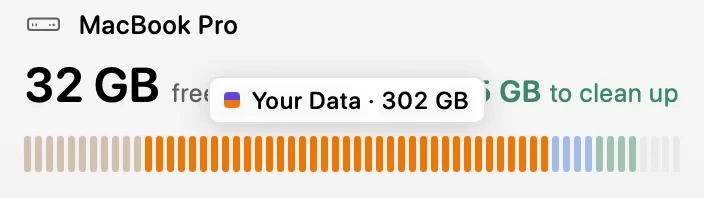
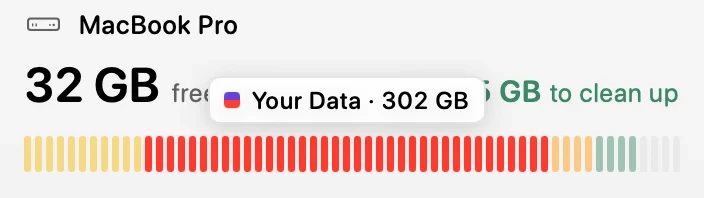
Levo: the disk bar in macOS's storage palette
Replaces the brown, orange and blue: System Data yellow, Your Data red,
Apps orange, Ready to free green, Free faint, in the demo, the Auto mode
tile, the disk and actions tiles (recoloured from the original renders)
and the phone stills.

Changed region(s): [[0.0312, 0.6667, 0.8438, 0.8788], [0.3125, 0.4848, 0.3438, 0.5455]]

diff --git a/levo/bento.css b/levo/bento.css
@@ -189,12 +189,12 @@ html.dark .bt-auto-pop { background: linear-gradient(180deg, #232323 0%, #1B1B1B
 .bt-auto-sec { color: rgb(var(--fg) / 0.5); }
 .bt-auto-ticks { display: flex; gap: 2px; margin: 12px 0 16px; }
 .bt-auto-ticks i { flex: 1; height: 18px; border-radius: 1.5px; background: var(--lv-free); transition: background-color .3s; }
-.bt-auto-ticks i.is-sys { background: #B89874; }
-.bt-auto-ticks i.is-data { background: #FF9F0A; }
-.bt-auto-ticks i.is-apps { background: #4FA3F8; }
-html:not(.dark) .bt-auto-ticks i.is-sys { background: #A2845E; }
-html:not(.dark) .bt-auto-ticks i.is-data { background: #E8780C; }
-html:not(.dark) .bt-auto-ticks i.is-apps { background: #1F7AE0; }
+.bt-auto-ticks i.is-sys { background: #FFD60A; }
+.bt-auto-ticks i.is-data { background: #FF453A; }
+.bt-auto-ticks i.is-apps { background: #FF9F0A; }
+html:not(.dark) .bt-auto-ticks i.is-sys { background: #F2B800; }
+html:not(.dark) .bt-auto-ticks i.is-data { background: #FF3B30; }
+html:not(.dark) .bt-auto-ticks i.is-apps { background: #FF9500; }
 .bt-auto-ticks i.is-free { background: rgb(var(--fg) / 0.14); }
 
 .bt-auto-chart { position: relative; flex: 1; min-width: 0; margin: 18px 40px 14px 0; }

diff --git a/levo/demo.js b/levo/demo.js
@@ -406,7 +406,8 @@
 	// what's in use, then what a clean would free, in green, then free space.
 	// The app's five parts (Gauges.swift DiskPart): System Data, Your Data, Apps,
 	// Ready to free (what's ticked, in green) and Free. Unticked findings stay Your Data.
-	var PARTS = { system: ["#A2845E", "#B89874"], yourData: ["#E8780C", "#FF9F0A"], apps: ["#1F7AE0", "#4FA3F8"] };
+	// macOS's own storage palette, without its grey: System Data yellow, Your Data red, Apps orange.
+	var PARTS = { system: ["#F2B800", "#FFD60A"], yourData: ["#FF3B30", "#FF453A"], apps: ["#FF9500", "#FF9F0A"] };
 	function segments() {
 		var unticked = readyGB() - tickedGB(), d = dark() ? 1 : 0;
 		var part = function (id) { return sum(S.disk.used.filter(function (u) { return (u.id === "system" ? "system" : u.id === "apps" ? "apps" : "yourData") === id; }), function (u) { return u.gb; }); };

diff --git a/levo/bento.js b/levo/bento.js
@@ -107,7 +107,7 @@
 		el.classList.toggle("is-freed", x >= DROP);
 		el.classList.toggle("is-low", x < DROP && v < AUTO.limit + 2);
 		var n = Math.round((v / AUTO.total) * AUTO.ticks * 2.4), ticks = el.querySelectorAll("[data-autoticks] i");
-		for (var i = 0; i < ticks.length; i++) ticks[i].className = i >= ticks.length - n ? "is-free" : i < 12 ? "is-sys" : i < 40 ? "is-data" : "is-apps";
+		for (var i = 0; i < ticks.length; i++) ticks[i].className = i >= ticks.length - n ? "is-free" : i < 8 ? "is-sys" : i < 30 ? "is-data" : "is-apps";
 	}
 	function autoPlay(t) {
 		var el = t.el, gen = t.gen, LOOP = 7600, HOLD = 1600;

diff --git a/levo/README.md b/levo/README.md
@@ -147,8 +147,8 @@ carries names, labels, numbers and the price only.
 
 The demo shows the app's Summary layout in round 12's order (PopoverView.swift):
 the Mac's name, the gauges, then free space, "to clean up" and the five-part
-disk bar (System Data brown, Your Data orange, Apps blue, Ready to free green,
-Free grey, as the app; only the green fills), then "A balanced clean up frees 33 GB: Xcode build data, Simulators and
+disk bar (macOS's storage palette as the app: System Data yellow, Your Data
+red, Apps orange, Ready to free green, Free faint; only the green fills), then "A balanced clean up frees 33 GB: Xcode build data, Simulators and
 4 more." The level word is a menu (Careful, Balanced, Aggressive, Everything);
 the amount, "4 more" and the empty space open the full breakdown, and the
 sentence holds still while ticking there. The Command K panel and every confirm
